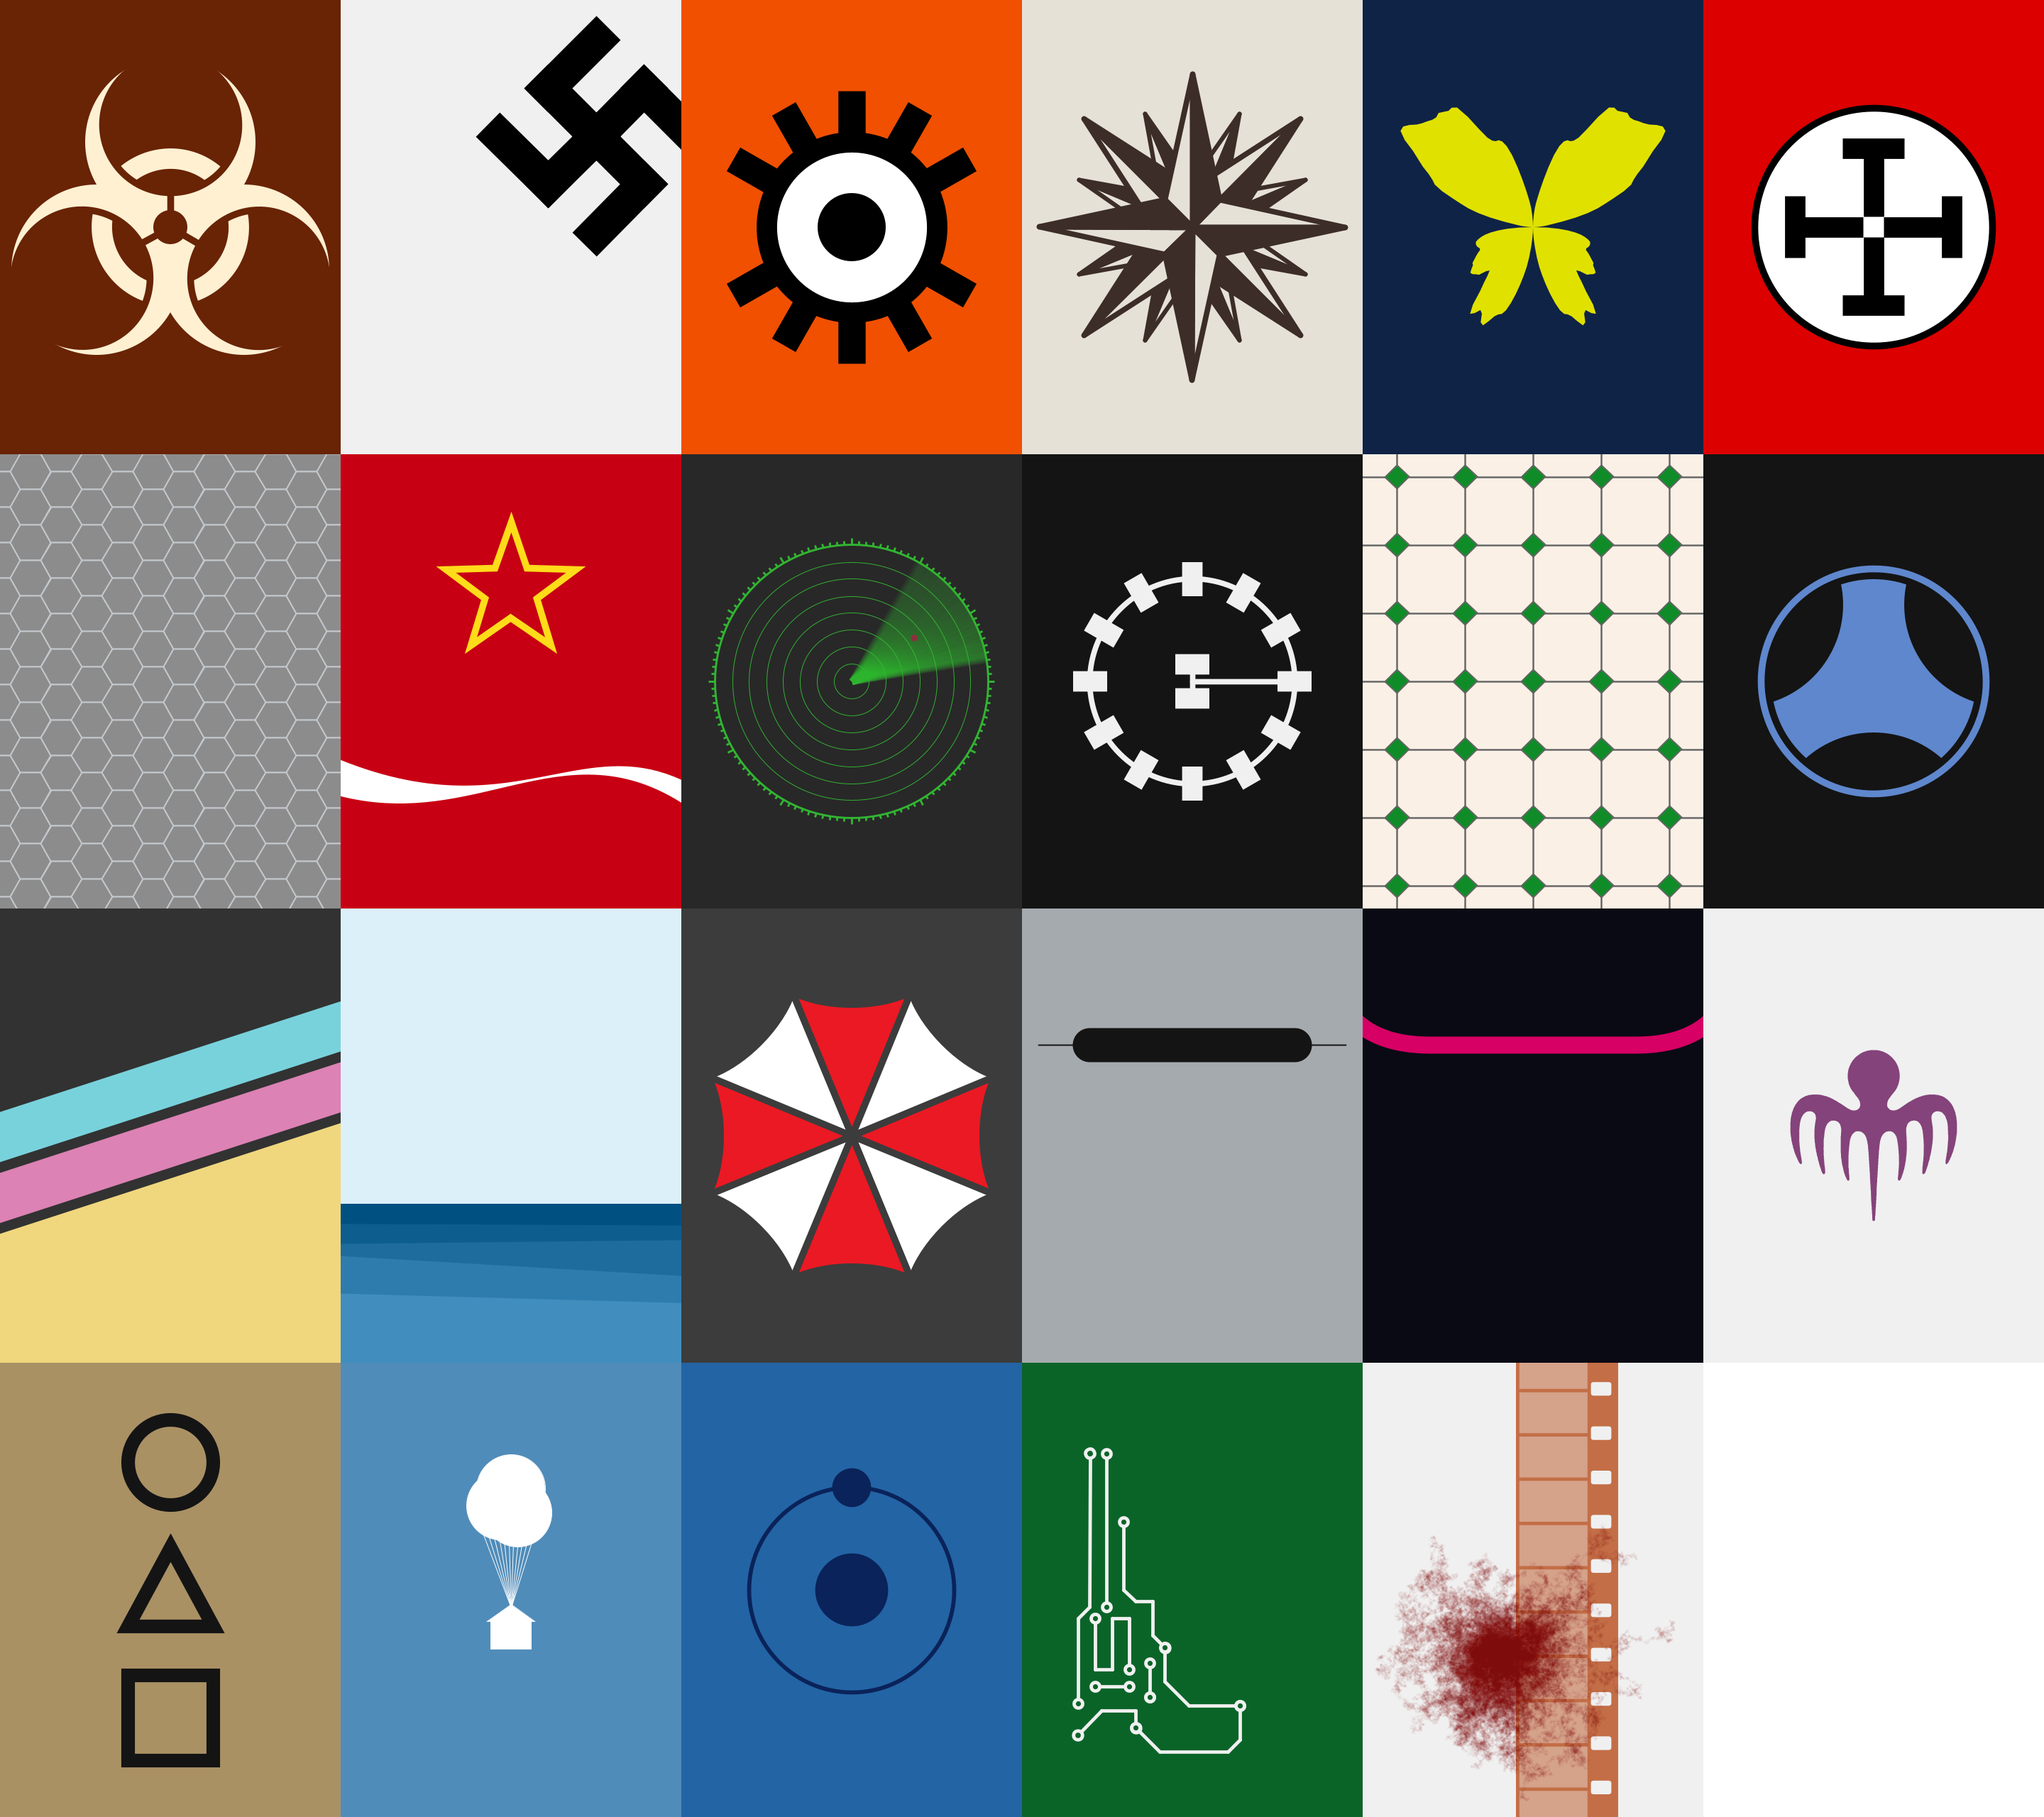
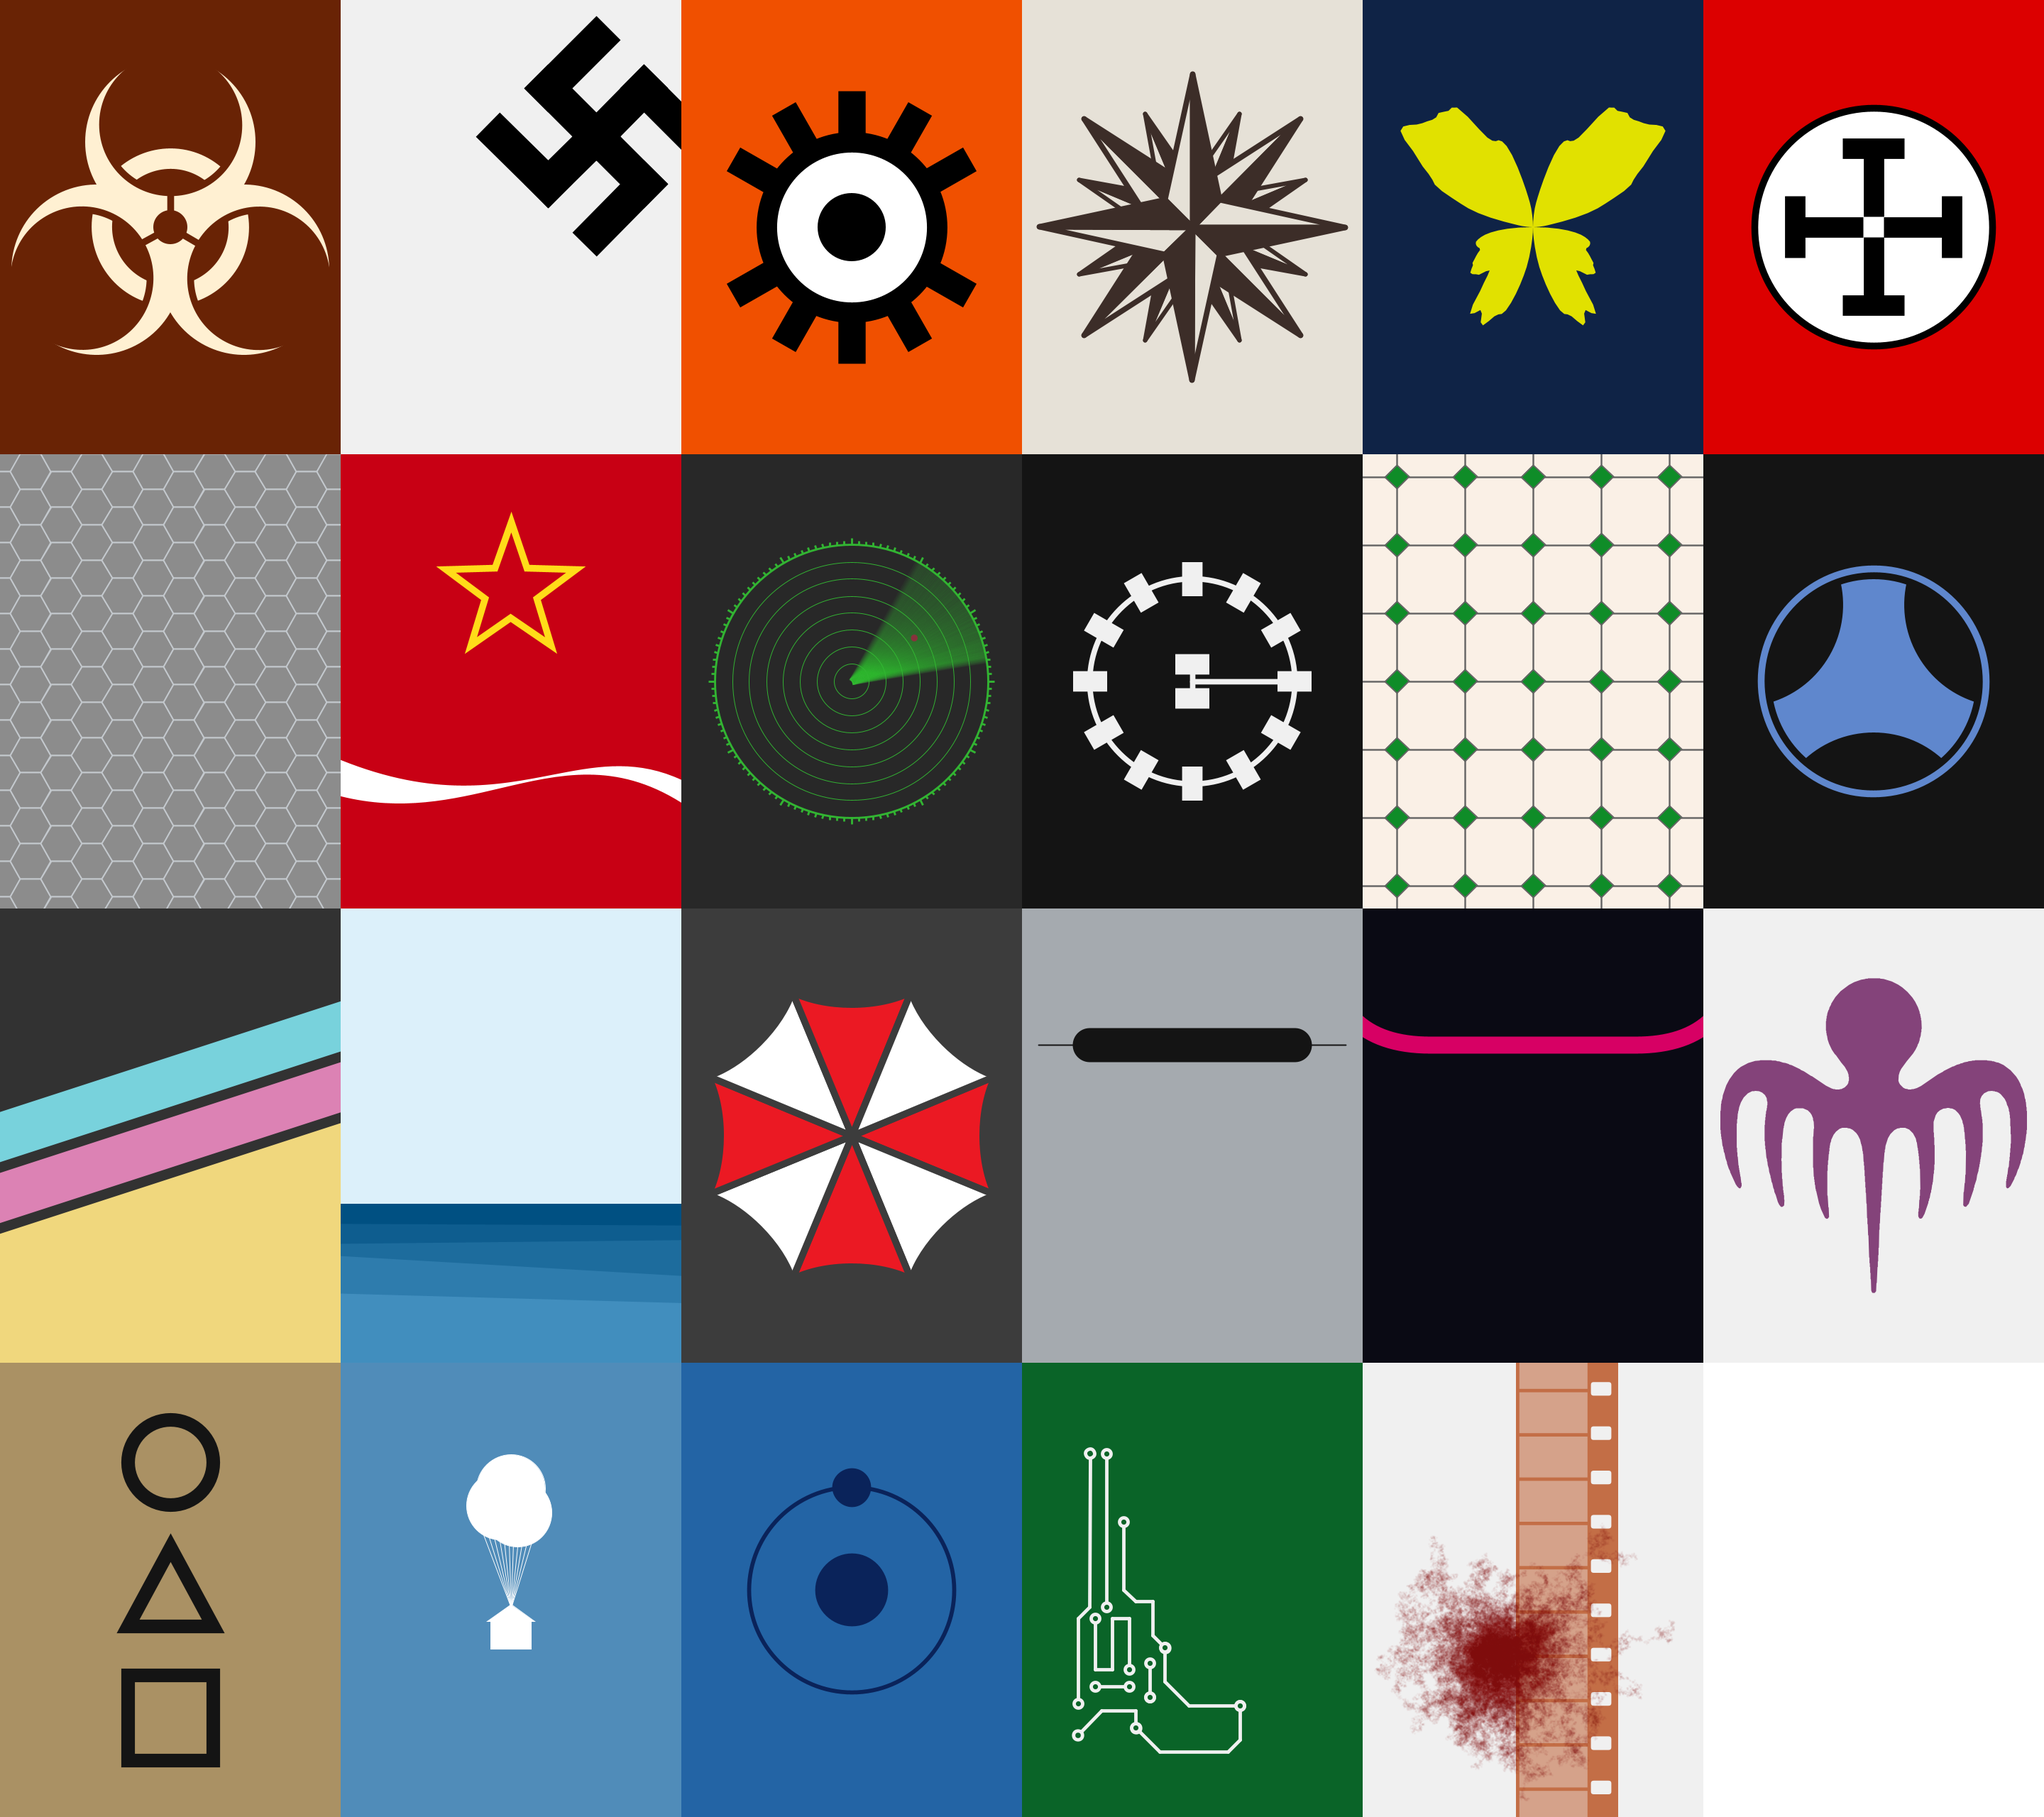
pages updated

Changed region(s): [[0.8438, 0.5312, 1.0, 0.6875]]

diff --git a/examples/volume6/spectre/README.md b/examples/volume6/spectre/README.md
@@ -22,7 +22,7 @@ A cryptic message from James Bond's past sends him on a trail to uncover the exi
 // Manuale di Programmazione Cinematografica
 // Daniele Olmisani, 2026
 
-// Spectre (2026)
+// Spectre (2015)
 
 
 final color PAPER = color(240);
@@ -127,10 +127,25 @@ void setup() {
 
 void draw() {
   background(PAPER);
-  
-  float scaleFactor = min(width / (float)RADIUS, height / (float)RADIUS);
-  float offsetX = (width - RADIUS * scaleFactor) / 2.0;
-  float offsetY = (height - RADIUS * scaleFactor) / 2.0;
+
+  float minX = Float.MAX_VALUE;
+  float minY = Float.MAX_VALUE;
+  float maxX = -Float.MAX_VALUE;
+  float maxY = -Float.MAX_VALUE;
+
+  for (int i = 0; i < PX.length; i++) {
+    minX = min(minX, PX[i]);
+    minY = min(minY, PY[i]);
+    maxX = max(maxX, PX[i]);
+    maxY = max(maxY, PY[i]);
+  }
+
+  float shapeWidth = maxX - minX;
+  float shapeHeight = maxY - minY;
+  float padding = 0.1;
+  float scaleFactor = min(width / shapeWidth, height / shapeHeight) * (1.0 - padding);
+  float offsetX = (width - shapeWidth * scaleFactor) / 2.0 - minX * scaleFactor;
+  float offsetY = (height - shapeHeight * scaleFactor) / 2.0 - minY * scaleFactor;
   
   pushMatrix();
   translate(offsetX, offsetY);
